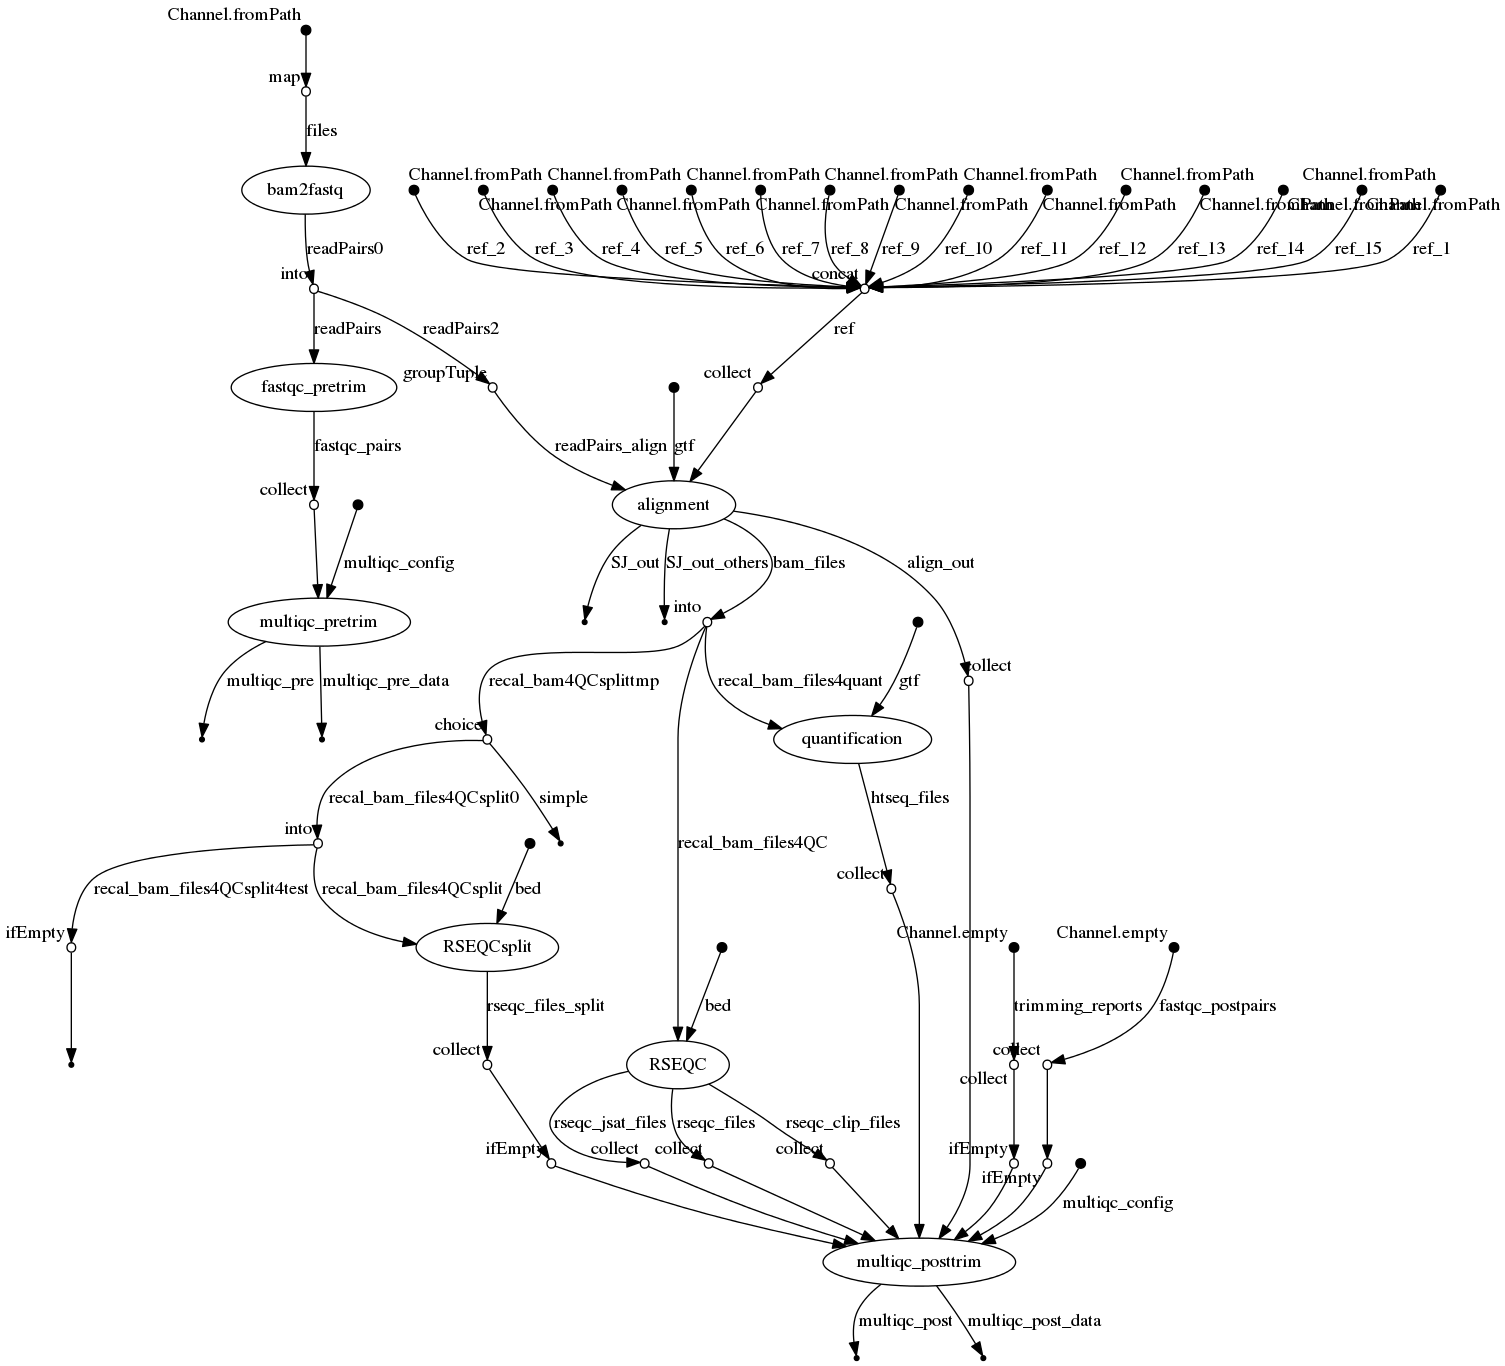
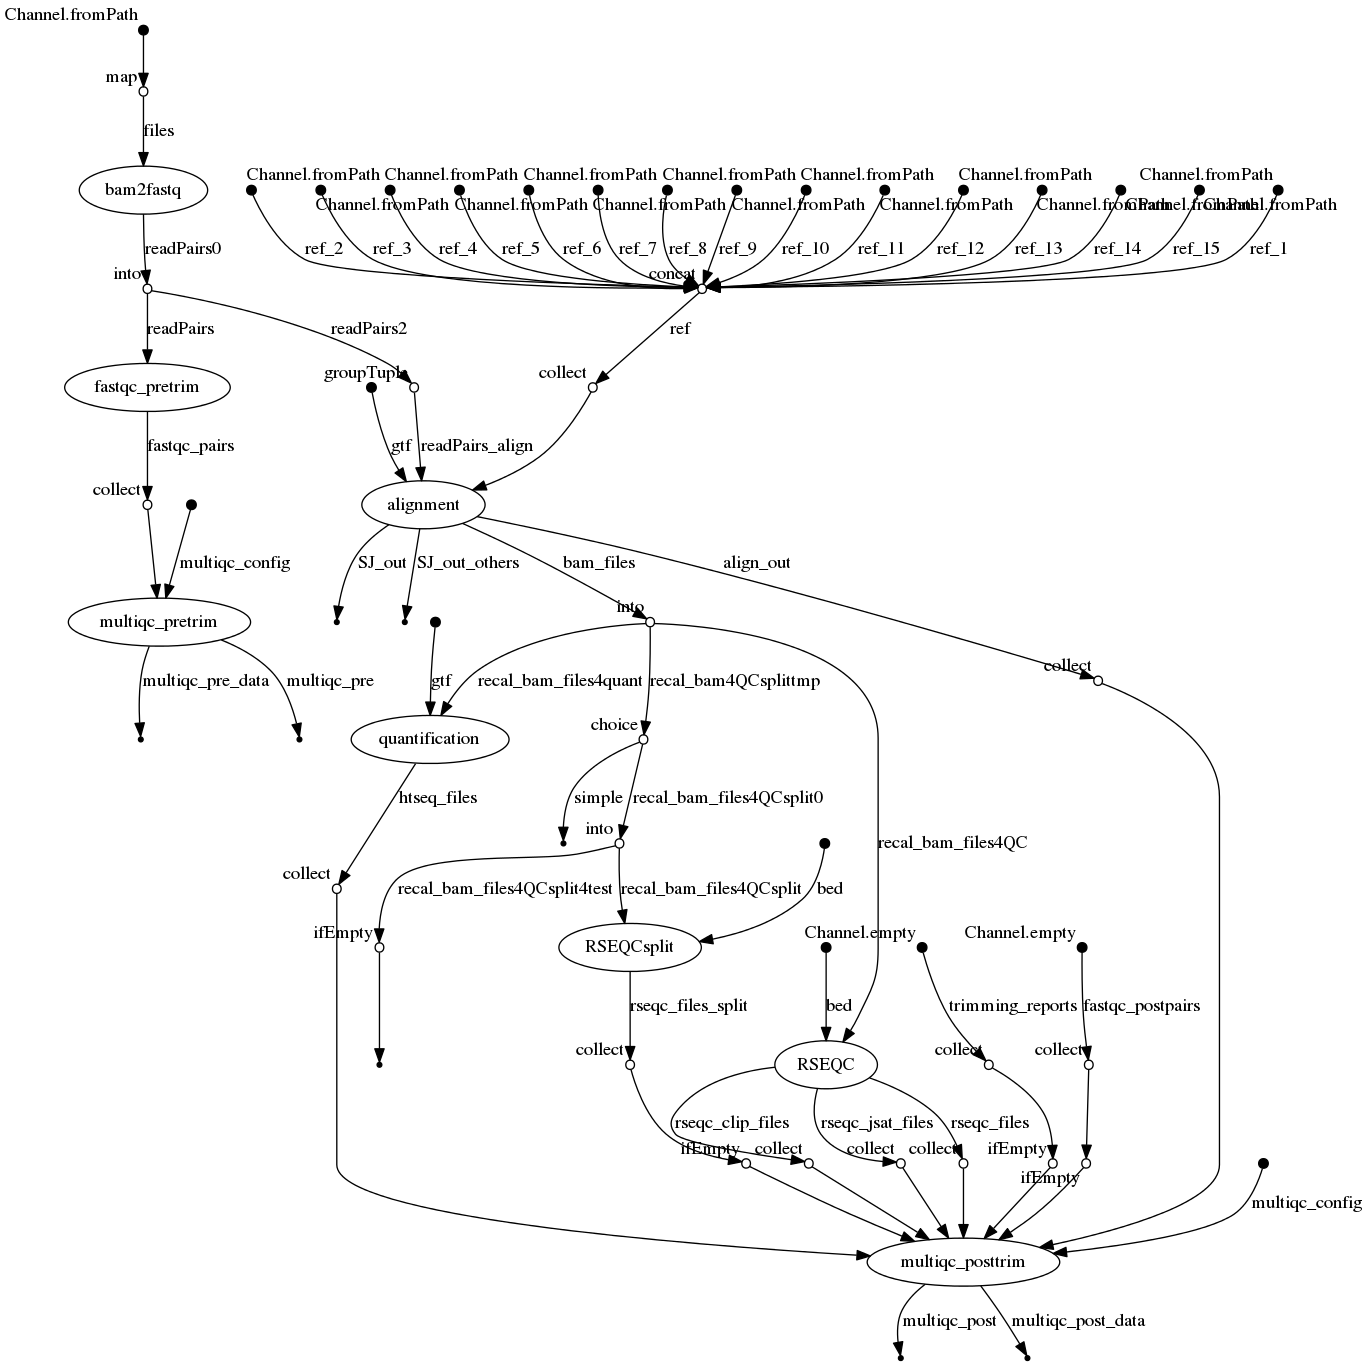
Generated DAG [skip ci]

diff --git a/dag_STAR_sjtrim.html b/dag_STAR_sjtrim.html
@@ -207,21 +207,17 @@ edges: [
 { data: { source: 'p30', target: 'p32', label: 'fasta_ref_fai' } },
 { data: { source: 'p31', target: 'p32', label: 'fasta_ref_dict' } },
 { data: { source: 'p32', target: 'p33', label: 'bam_files2' } },
-{ data: { source: 'p33', target: 'p36', label: 'recal_bam4QCsplittmp' } },
-{ data: { source: 'p33', target: 'p44', label: 'recal_bam_files4quant' } },
-<<<<<<< HEAD
-{ data: { source: 'p33', target: 'p36', label: 'recal_bam4QCsplittmp' } },
-=======
->>>>>>> master
 { data: { source: 'p33', target: 'p35', label: 'recal_bam_files4QC' } },
+{ data: { source: 'p33', target: 'p44', label: 'recal_bam_files4quant' } },
+{ data: { source: 'p33', target: 'p36', label: 'recal_bam4QCsplittmp' } },
 { data: { source: 'p34', target: 'p35', label: 'bed' } },
 { data: { source: 'p35', target: 'p53', label: 'rseqc_files' } },
 { data: { source: 'p35', target: 'p52', label: 'rseqc_clip_files' } },
 { data: { source: 'p35', target: 'p54', label: 'rseqc_jsat_files' } },
 { data: { source: 'p36', target: 'p37', label: 'simple' } },
 { data: { source: 'p36', target: 'p38', label: 'recal_bam_files4QCsplit0' } },
-{ data: { source: 'p38', target: 'p40', label: 'recal_bam_files4QCsplit' } },
 { data: { source: 'p38', target: 'p41', label: 'recal_bam_files4QCsplit4test' } },
+{ data: { source: 'p38', target: 'p40', label: 'recal_bam_files4QCsplit' } },
 { data: { source: 'p39', target: 'p40', label: 'bed' } },
 { data: { source: 'p40', target: 'p59', label: 'rseqc_files_split' } },
 { data: { source: 'p41', target: 'p42'} },

diff --git a/dag_STAR.html b/dag_STAR.html
@@ -199,9 +199,9 @@ edges: [
 { data: { source: 'p26', target: 'p46', label: 'align_out' } },
 { data: { source: 'p26', target: 'p28', label: 'SJ_out' } },
 { data: { source: 'p26', target: 'p27', label: 'SJ_out_others' } },
-{ data: { source: 'p29', target: 'p32', label: 'recal_bam4QCsplittmp' } },
-{ data: { source: 'p29', target: 'p40', label: 'recal_bam_files4quant' } },
 { data: { source: 'p29', target: 'p31', label: 'recal_bam_files4QC' } },
+{ data: { source: 'p29', target: 'p40', label: 'recal_bam_files4quant' } },
+{ data: { source: 'p29', target: 'p32', label: 'recal_bam4QCsplittmp' } },
 { data: { source: 'p30', target: 'p31', label: 'bed' } },
 { data: { source: 'p31', target: 'p49', label: 'rseqc_files' } },
 { data: { source: 'p31', target: 'p48', label: 'rseqc_clip_files' } },
